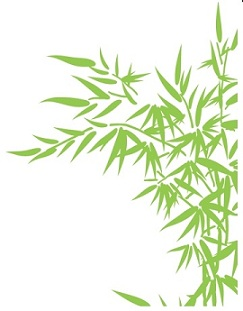
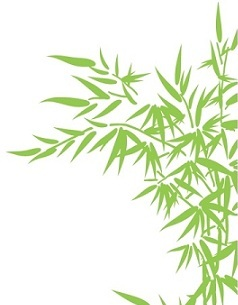
menu plus petit ; background repeat

Changed region(s): [[0.0294, 0.0, 1.0, 1.0], [0.4706, 0.9148, 0.7059, 1.0]]

diff --git a/style.css b/style.css
@@ -16,7 +16,7 @@
     }
 
 body {
-    background-repeat: no-repeat;
+   /* background-repeat: no-repeat;*/
     background-position: center top;
     background-image: url('images/fond.jpg');
     background-attachment: fixed;
@@ -71,7 +71,7 @@ ul {
      */
 .menu {
     float: left;
-    width: 26ex;
+    width: 25ex;
     height: 738px;
     margin-left: 1em;
     }
@@ -85,7 +85,7 @@ ul {
 
 .menucont {
     position: absolute;
-    width: 25ex;
+    width: 24ex;
     height: 730px;
     padding: 2px;
     border-style: inset outset;
@@ -140,7 +140,7 @@ p:first-letter {
     }
 
 .bord {
-    margin: 0ex 1em 1ex 30ex;
+    margin: 0ex 1em 1ex 29ex;
     border: 4px double #663300;
   /*  max-width: 128ex;*/
     height: 734px;
@@ -183,7 +183,7 @@ p:first-letter {
     border: 1px solid #663300;
     margin: 1ex 1em 0.5ex;
     padding: 1px 1ex;
-    max-width: 136ex;
+  /*  max-width: 136ex;*/
     background-color: white;
     font-family: "Howies Funhouse", sans-serif;
     text-align: right;
